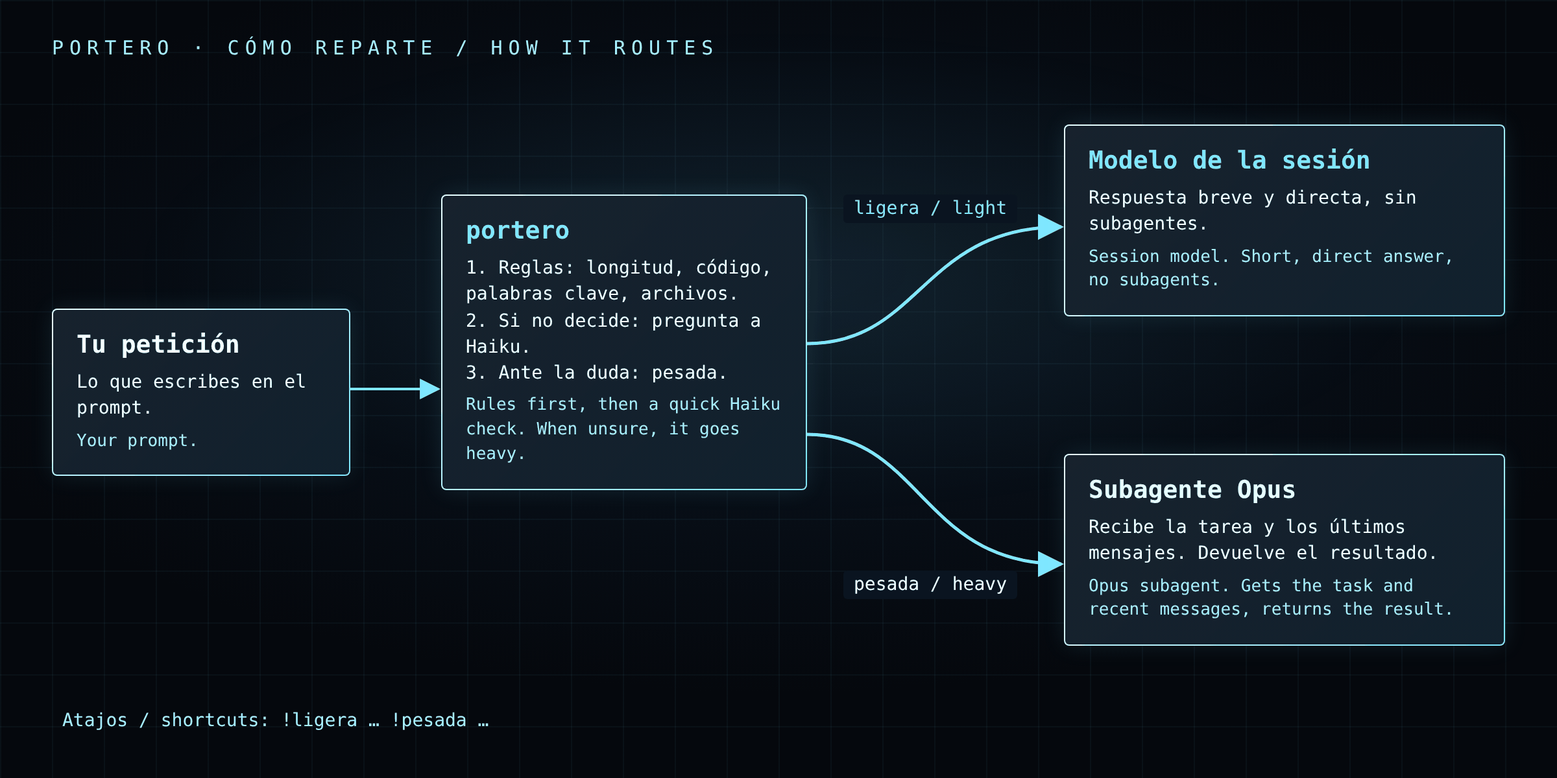
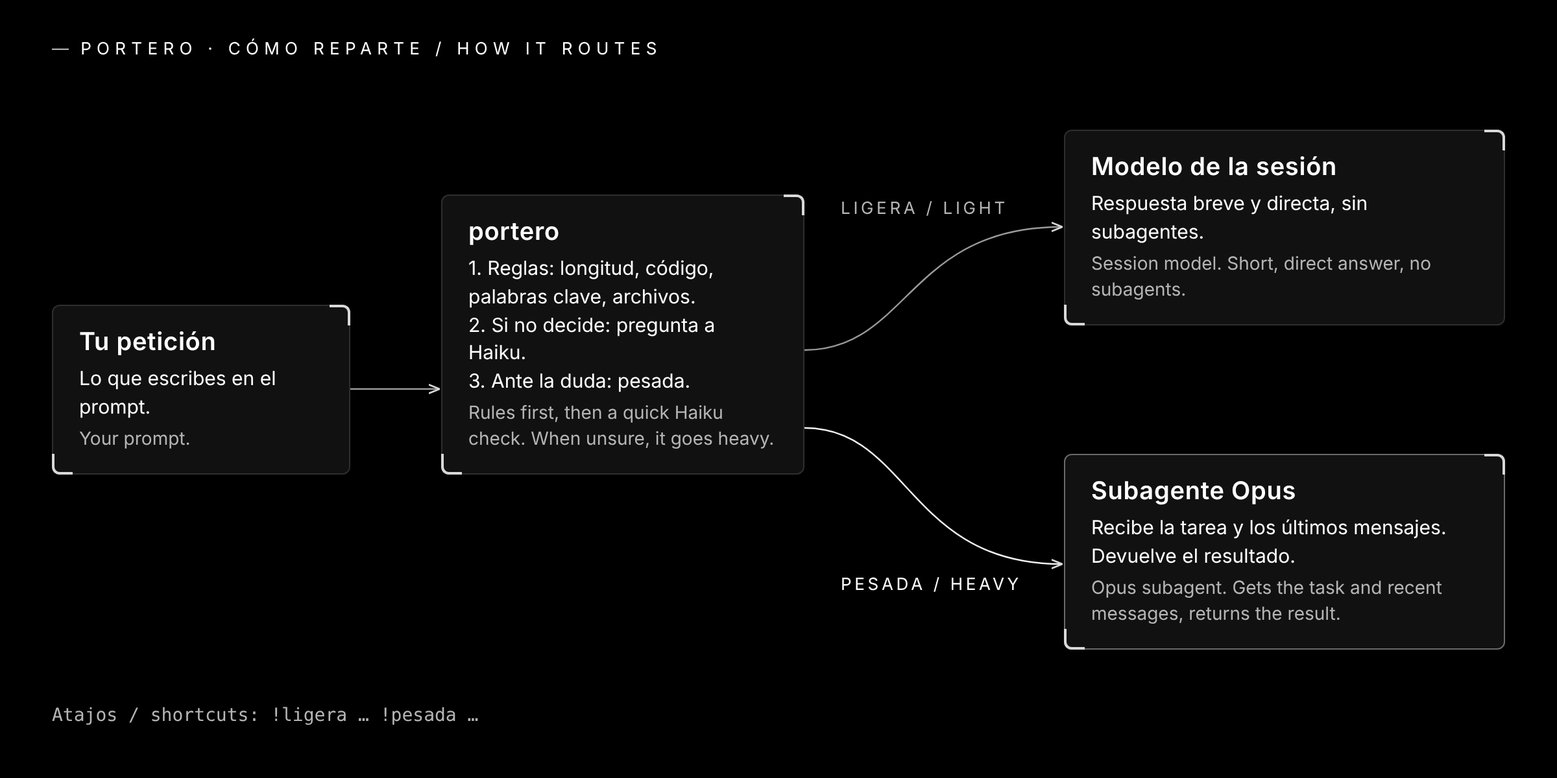
Imágenes monocromas y textos del pack 0.4.0
- images/ y distintivos del README desde pack-monocromo.
- README raíz: versiones finales de los cinco mods, novedades de la 0.4.0,
  consumo monocromo y en euros (fuera "blanco-cian"), carpetas de datos de
  portero y resumen-sesion, idiomas y límites de mods-estado al día.
- docs/: eventos, datos y comandos de cada mod; qué se escribe en disco
  (historico.json, decisiones.jsonl y ultimo-resumen.md).
- marketplace.json: descripciones al día.
- jarvis-banda/README: vuelve la galería de estados para que ninguna
  imagen quede sin usar.

Claude-Session: https://claude.ai/code/session_01GTQ6uXB2achPbvC2MLVFVT

diff --git a/README.md b/README.md
@@ -5,10 +5,10 @@
 <p align="center"><b>Cinco mods para Claude Code con estilo J.A.R.V.I.S.: reparten el trabajo entre modelos, muestran el consumo y te dicen en qué está la sesión.</b></p>
 
 <p align="center">
-  <a href="LICENSE"><img alt="Licencia MIT" src="https://img.shields.io/badge/licencia-MIT-22d3ee"></a>
-  <a href="https://docs.claude.com/en/docs/claude-code"><img alt="Claude Code" src="https://img.shields.io/badge/Claude%20Code-mods-d97757"></a>
-  <a href="CHANGELOG.md"><img alt="Versión 0.3.0" src="https://img.shields.io/badge/versi%C3%B3n-0.3.0-64748b"></a>
-  <a href="CONTRIBUTING.md"><img alt="Contribuciones bienvenidas" src="https://img.shields.io/badge/contribuciones-bienvenidas-34d399"></a>
+  <a href="LICENSE"><img alt="Licencia MIT" src="https://img.shields.io/badge/licencia-MIT-333333?labelColor=111111"></a>
+  <a href="https://docs.claude.com/en/docs/claude-code"><img alt="Claude Code" src="https://img.shields.io/badge/Claude%20Code-mods-333333?labelColor=111111"></a>
+  <a href="CHANGELOG.md"><img alt="Versión 0.4.0" src="https://img.shields.io/badge/versi%C3%B3n-0.4.0-333333?labelColor=111111"></a>
+  <a href="CONTRIBUTING.md"><img alt="Contribuciones bienvenidas" src="https://img.shields.io/badge/contribuciones-bienvenidas-333333?labelColor=111111"></a>
 </p>
 
 <p align="center"><b>Español</b> · <a href="#en">English</a></p>
@@ -34,6 +34,16 @@
 
 ## Novedades
 
+**Versión 0.4.0 del pack**
+
+Todo el pack pasa a una estética monocroma (blanco, grises y negro), también en las imágenes.
+
+- **consumo 0.8.0:** histórico entre sesiones (bloque Acumulado: hoy, semana, total y últimas sesiones), costes en euros por defecto (`moneda` y `tipoCambio`), tema `monocromo` por defecto, densidad automática según el tamaño de la ventana y sin parpadeo. `/jarvis` sigue abriendo y cerrando el HUD.
+- **portero 0.2.0:** clasificación por capas, override `!dudosa`, registro local de decisiones y comando `/portero`.
+- **resumen-sesion 0.2.0:** resumen de traspaso en secciones, comandos `/resumen` y `/resumen-ver`, y el último resumen guardado en disco.
+- **jarvis-banda 0.3.0:** siete estados, modelo y contexto en la misma línea, color monocromo por defecto y comando `/banda`.
+- **mods-estado 0.4.0:** `/mods` como diagnóstico del pack (versión instalada y copia local, fallos de carga, restos del marketplace antiguo), `/mods actualizar` y `/mods ayuda`, en blanco y grises.
+
 **Versión 0.3.0 del pack**
 
 - **consumo 0.4.0 y mods-estado 0.3.0:** sin rutas fijas de Windows. La carpeta de datos del HUD (`dataDir`) y la carpeta del pack (`modsDir`) se configuran con `claude plugin configure`; por defecto, `~/CLAUDE/consumo` y `~/CLAUDE/mods` dentro de tu carpeta de usuario. Ver [Configurar las carpetas](#es-carpetas).
@@ -52,11 +62,11 @@ Todos los cambios en [CHANGELOG.md](CHANGELOG.md).
 
 | Mod | Qué hace | Imagen |
 |---|---|---|
-| **[portero](portero/)**<br><sub>v0.1.0</sub> | Mira cada petición y decide quién la hace. Lo ligero, el modelo de la sesión. Lo pesado, un subagente Opus. | <img src="images/portero-diagrama.png" alt="portero" width="280"> |
-| **[resumen-sesion](resumen-sesion/)**<br><sub>v0.1.0</sub> | Si vuelves tras 2 horas sin escribir, Haiku escribe un resumen de traspaso para seguir en una sesión nueva. | <img src="images/resumen-terminal.png" alt="resumen-sesion" width="280"> |
-| **[consumo](consumo/)**<br><sub>v0.4.0</sub> | Ventana HUD en directo, en blanco-cian: barra del plan, contexto usado, coste, tokens por agente y por modelo, y comparativa Haiku frente a Opus. `/jarvis` la abre o la cierra. | <img src="images/consumo-900x600.png" alt="consumo" width="280"> |
-| **[jarvis-banda](jarvis-banda/)**<br><sub>v0.2.0</sub> | Una línea encima del prompt con el estado en vivo: esperando, procesando, ejecutando o delegando. | <img src="images/banda-delegando.png" alt="jarvis-banda" width="280"> |
-| **[mods-estado](mods-estado/)**<br><sub>v0.3.0</sub> | Comando `/mods`: lista los plugins activos y marca los del pack. `/mods on` y `/mods off` activan o desactivan un mod. | <img src="images/mods-terminal.png" alt="mods-estado" width="280"> |
+| **[portero](portero/)**<br><sub>v0.2.0</sub> | Mira cada petición y decide quién la hace, por capas de reglas. Lo ligero, el modelo de la sesión. Lo pesado, un subagente Opus. `/portero` enseña el reparto. | <img src="images/portero-diagrama.png" alt="portero" width="280"> |
+| **[resumen-sesion](resumen-sesion/)**<br><sub>v0.2.0</sub> | Si vuelves tras 2 horas sin escribir, o con `/resumen`, Haiku escribe un resumen de traspaso en secciones para seguir en una sesión nueva. `/resumen-ver` muestra el último. | <img src="images/resumen-terminal.png" alt="resumen-sesion" width="280"> |
+| **[consumo](consumo/)**<br><sub>v0.8.0</sub> | Ventana HUD en directo, monocroma por defecto: barra del plan, contexto usado, coste en euros, tokens por agente y por modelo, comparativa Haiku frente a Opus y acumulado entre sesiones. `/jarvis` la abre o la cierra. | <img src="images/consumo-900x600.png" alt="consumo" width="280"> |
+| **[jarvis-banda](jarvis-banda/)**<br><sub>v0.3.0</sub> | Una línea monocroma encima del prompt con el estado en vivo (esperando, procesando, pensando, ejecutando, delegando, permiso o error), el modelo y el contexto. `/banda` cambia idioma y modo. | <img src="images/banda-delegando.png" alt="jarvis-banda" width="280"> |
+| **[mods-estado](mods-estado/)**<br><sub>v0.4.0</sub> | Comando `/mods`: diagnóstico del pack (estado, versión instalada y de tu copia local, fallos de carga). `/mods on` y `/mods off` activan o desactivan un mod; `/mods actualizar` da los comandos para actualizar. | <img src="images/mods-terminal.png" alt="mods-estado" width="280"> |
 
 Cada mod es independiente. Instala solo los que quieras.
 
@@ -120,11 +130,13 @@ En macOS o Linux vale lo mismo con `claude --plugin-dir ~/CLAUDE/mods/portero --
 
 ## Configurar las carpetas
 
-Ningún mod usa rutas fijas. Dos mods tienen una opción de carpeta (`userConfig` en su `plugin.json`):
+Ningún mod usa rutas fijas. Cuatro mods tienen una opción de carpeta (`userConfig` en su `plugin.json`):
 
 | Mod | Opción | Para qué | Valor por defecto |
 |---|---|---|---|
-| `consumo` | `dataDir` | dónde se escriben `index.html`, `datos.js`, `estado.json` y `estado.js` | `~/CLAUDE/consumo` |
+| `consumo` | `dataDir` | dónde se escriben `index.html`, `datos.js`, `estado.json`, `estado.js` e `historico.json` | `~/CLAUDE/consumo` |
+| `portero` | `dataDir` | dónde se guarda el registro `decisiones.jsonl` | `~/CLAUDE/portero` |
+| `resumen-sesion` | `dataDir` | dónde se guarda `ultimo-resumen.md` | `~/CLAUDE/resumen-sesion` |
 | `mods-estado` | `modsDir` | dónde está tu copia local del pack | `~/CLAUDE/mods` |
 
 `~` es tu carpeta de usuario (`%USERPROFILE%` en Windows, `$HOME` en macOS y Linux). Acepta también una ruta absoluta.
@@ -181,9 +193,9 @@ Más detalle y un diagrama en [docs/como-funciona.md](docs/como-funciona.md).
 - **Sin audio en Windows.** Los mods no reproducen sonidos ni voz.
 - **portero no cambia el modelo del hilo principal.** Si la sesión usa Opus, lo ligero también va con Opus. Para ahorrar, pon la sesión en Haiku con `/model`.
 - **El HUD de consumo no se ha probado en todos los PC.** Puede variar con la versión de Windows, el navegador o el escalado de pantalla.
-- **mods-estado no ve los mods cargados con `--plugin-dir`.** Salen como "no cargado" aunque estén en uso, y `/mods on` y `/mods off` no los cambian.
+- **mods-estado no ve los mods cargados con `--plugin-dir`.** Salen como "no instalado" aunque estén en uso (salvo el propio mods-estado, que sale como "en uso"), y `/mods on` y `/mods off` no los cambian.
 - **`/jarvis` no siempre cierra la ventana.** `window.close()` puede no funcionar en algunas versiones de Edge; entonces la página avisa y la cierras a mano.
-- **Textos en español.** Lo que los mods muestran en la terminal está en español.
+- **Textos en español por defecto.** consumo, jarvis-banda, mods-estado y resumen-sesion tienen una opción de idioma (`idioma` o `language`) para pasar a inglés; portero solo está en español.
 
 <a id="es-contribuir"></a>
 
@@ -228,6 +240,16 @@ MIT © deriva1945-ui. Ver [LICENSE](LICENSE). Cada mod lleva también su propio 
 
 ## What's new
 
+**Pack version 0.4.0**
+
+The whole pack moves to a monochrome look (white, greys and black), images included.
+
+- **consumo 0.8.0:** history across sessions (Accumulated block: today, this week, total and latest sessions), costs in euros by default (`moneda` and `tipoCambio`), `monocromo` as the default theme, automatic density from the window size and no flicker. `/jarvis` still opens and closes the HUD.
+- **portero 0.2.0:** layered classification, `!dudosa` override, local decision log and the `/portero` command.
+- **resumen-sesion 0.2.0:** handover summary in sections, `/resumen` and `/resumen-ver` commands, and the last summary saved to disk.
+- **jarvis-banda 0.3.0:** seven states, model and context on the same line, monochrome colour by default and the `/banda` command.
+- **mods-estado 0.4.0:** `/mods` as a pack check-up (installed version and local copy, load failures, leftovers from the old marketplace), `/mods update` and `/mods help`, in white and greys.
+
 **Pack version 0.3.0**
 
 - **consumo 0.4.0 and mods-estado 0.3.0:** no fixed Windows paths. The HUD data folder (`dataDir`) and the pack folder (`modsDir`) are set with `claude plugin configure`; by default, `~/CLAUDE/consumo` and `~/CLAUDE/mods` inside your user folder. See [Configure the folders](#en-folders).
@@ -246,11 +268,11 @@ Every change is in [CHANGELOG.md](CHANGELOG.md).
 
 | Mod | What it does | Image |
 |---|---|---|
-| **[portero](portero/)**<br><sub>v0.1.0</sub> | Looks at each request and decides who handles it. Light work: the session model. Heavy work: an Opus subagent. | <img src="images/portero-diagrama.png" alt="portero" width="280"> |
-| **[resumen-sesion](resumen-sesion/)**<br><sub>v0.1.0</sub> | When you come back after 2 hours without typing, Haiku writes a handover summary so you can continue in a new session. | <img src="images/resumen-terminal.png" alt="resumen-sesion" width="280"> |
-| **[consumo](consumo/)**<br><sub>v0.4.0</sub> | Live white-cyan HUD window: plan bar, context used, cost, tokens per agent and per model, and a Haiku versus Opus comparison. `/jarvis` opens or closes it. | <img src="images/consumo-900x600.png" alt="consumo" width="280"> |
-| **[jarvis-banda](jarvis-banda/)**<br><sub>v0.2.0</sub> | One line above the prompt with the live state: waiting, processing, running a tool, or delegating. | <img src="images/banda-delegando.png" alt="jarvis-banda" width="280"> |
-| **[mods-estado](mods-estado/)**<br><sub>v0.3.0</sub> | `/mods` command: lists active plugins and marks the ones from this pack. `/mods on` and `/mods off` enable or disable a mod. | <img src="images/mods-terminal.png" alt="mods-estado" width="280"> |
+| **[portero](portero/)**<br><sub>v0.2.0</sub> | Looks at each request and decides who handles it, through layers of rules. Light work: the session model. Heavy work: an Opus subagent. `/portero` shows the split. | <img src="images/portero-diagrama.png" alt="portero" width="280"> |
+| **[resumen-sesion](resumen-sesion/)**<br><sub>v0.2.0</sub> | When you come back after 2 hours without typing, or with `/resumen`, Haiku writes a handover summary in sections so you can continue in a new session. `/resumen-ver` shows the last one. | <img src="images/resumen-terminal.png" alt="resumen-sesion" width="280"> |
+| **[consumo](consumo/)**<br><sub>v0.8.0</sub> | Live HUD window, monochrome by default: plan bar, context used, cost in euros, tokens per agent and per model, a Haiku versus Opus comparison and totals across sessions. `/jarvis` opens or closes it. | <img src="images/consumo-900x600.png" alt="consumo" width="280"> |
+| **[jarvis-banda](jarvis-banda/)**<br><sub>v0.3.0</sub> | One monochrome line above the prompt with the live state (waiting, processing, thinking, running a tool, delegating, permission or error), the model and the context. `/banda` changes language and mode. | <img src="images/banda-delegando.png" alt="jarvis-banda" width="280"> |
+| **[mods-estado](mods-estado/)**<br><sub>v0.4.0</sub> | `/mods` command: a pack check-up (state, installed and local copy version, load failures). `/mods on` and `/mods off` enable or disable a mod; `/mods update` gives the commands to update. | <img src="images/mods-terminal.png" alt="mods-estado" width="280"> |
 
 Each mod works on its own. Install only the ones you want.
 
@@ -314,11 +336,13 @@ On macOS or Linux the same works with `claude --plugin-dir ~/CLAUDE/mods/portero
 
 ## Configure the folders
 
-No mod uses fixed paths. Two mods have a folder option (`userConfig` in their `plugin.json`):
+No mod uses fixed paths. Four mods have a folder option (`userConfig` in their `plugin.json`):
 
 | Mod | Option | What for | Default |
 |---|---|---|---|
-| `consumo` | `dataDir` | where `index.html`, `datos.js`, `estado.json` and `estado.js` are written | `~/CLAUDE/consumo` |
+| `consumo` | `dataDir` | where `index.html`, `datos.js`, `estado.json`, `estado.js` and `historico.json` are written | `~/CLAUDE/consumo` |
+| `portero` | `dataDir` | where the `decisiones.jsonl` log is kept | `~/CLAUDE/portero` |
+| `resumen-sesion` | `dataDir` | where `ultimo-resumen.md` is kept | `~/CLAUDE/resumen-sesion` |
 | `mods-estado` | `modsDir` | where your local copy of the pack is | `~/CLAUDE/mods` |
 
 `~` is your user folder (`%USERPROFILE%` on Windows, `$HOME` on macOS and Linux). An absolute path works too.
@@ -375,9 +399,9 @@ More detail and a diagram in [docs/how-it-works.md](docs/how-it-works.md).
 - **No audio on Windows.** The mods play no sounds or voice.
 - **portero does not change the main thread's model.** If the session runs on Opus, light work also runs on Opus. To save, switch the session to Haiku with `/model`.
 - **The consumo HUD has not been tested on every PC.** It may vary with the Windows version, the browser or display scaling.
-- **mods-estado cannot see mods loaded with `--plugin-dir`.** They show as "not loaded" even when in use, and `/mods on` and `/mods off` do not change them.
+- **mods-estado cannot see mods loaded with `--plugin-dir`.** They show as "not installed" even when in use (except mods-estado itself, which shows as "in use"), and `/mods on` and `/mods off` do not change them.
 - **`/jarvis` does not always close the window.** `window.close()` may not work in some Edge versions; the page then shows a notice and you close it by hand.
-- **Spanish labels.** What the mods show in the terminal is in Spanish.
+- **Spanish labels by default.** consumo, jarvis-banda, mods-estado and resumen-sesion have a language option (`idioma` or `language`) to switch to English; portero is Spanish only.
 
 <a id="en-contributing"></a>
 

diff --git a/docs/como-funciona.md b/docs/como-funciona.md
@@ -12,21 +12,24 @@ Los cinco mods siguen el mismo camino: **eventos → hooks → datos → pantall
 |---|---|
 | **Eventos** | Claude Code avisa de lo que pasa: `session.start` (empieza la sesión), `prompt.submit` (envías un mensaje), `tool.call` (corre una herramienta), `agent.spawn` (nace un subagente), `turn.complete` (termina un turno), `ui.render` (se dibuja una zona de la pantalla) y `command.run` (escribes un comando del mod). |
 | **Hooks** | Cada mod tiene un archivo `hooks/register.tsx`. Ahí dice qué eventos escucha y qué hace con cada uno. |
-| **Datos** | Lo que el mod recuerda entre eventos. Es pequeño: una hora, unos contadores, una fase. `consumo` además escribe un archivo en disco. |
+| **Datos** | Lo que el mod recuerda entre eventos. Es pequeño: una hora, unos contadores, una fase. `consumo`, `portero` y `resumen-sesion` además escriben archivos en su carpeta de datos. |
 | **Pantalla** | Donde se ve el resultado: una línea, un aviso, una ventana HUD, un texto en el chat o el propio turno de Claude. |
 
 ## Mod a mod
 
 | Mod | Escucha | Guarda | Muestra |
 |---|---|---|---|
-| [portero](../portero/) | `prompt.submit`, `agent.spawn` | la ruta del turno (ligera o pesada) | una nota en el turno y, si es pesada, un subagente Opus |
-| [resumen-sesion](../resumen-sesion/) | `turn.complete`, `prompt.submit` | la hora del último turno | un resumen de Haiku en el contexto y un aviso |
-| [consumo](../consumo/) | `session.start`, `turn.complete`, `tool.call`, `agent.spawn`, `command.run` | tokens, coste, turnos, plan, comparativa Haiku/Opus y si el HUD está abierto; va a `datos.js` y `estado.js` | una ventana HUD que recarga `datos.js` cada segundo y la respuesta de `/jarvis` |
-| [jarvis-banda](../jarvis-banda/) | `session.start`, `prompt.submit`, `tool.call`, `agent.spawn`, `turn.complete`, `ui.render` | fase, herramienta y modelos | una línea encima del prompt |
-| [mods-estado](../mods-estado/) | `session.start`, `command.run` | nada: lo calcula al momento | el informe de `/mods` y la respuesta de `/mods on` y `/mods off` |
+| [portero](../portero/) | `session.start`, `prompt.submit`, `agent.spawn`, `command.run` | la ruta del turno (ligera, pesada o dudosa) y el registro `decisiones.jsonl` | una nota en el turno, si es pesada un subagente Opus, la línea de estado y el informe de `/portero` |
+| [resumen-sesion](../resumen-sesion/) | `session.start`, `turn.complete`, `prompt.submit`, `command.run` | la hora del último turno y `ultimo-resumen.md` | un resumen de traspaso de Haiku en el contexto, un aviso y la respuesta de `/resumen` y `/resumen-ver` |
+| [consumo](../consumo/) | `session.start`, `turn.complete`, `tool.call`, `agent.spawn`, `command.run` | tokens, coste, turnos, plan, comparativa Haiku/Opus, acumulado entre sesiones y si el HUD está abierto; va a `datos.js`, `estado.js` e `historico.json` | una ventana HUD que recarga `datos.js` cada segundo y la respuesta de `/jarvis` |
+| [jarvis-banda](../jarvis-banda/) | `session.start`, `prompt.submit`, `tool.call`, `tool.check`, `turn.step`, `agent.spawn`, `turn.complete`, `ui.render`, `command.run` | fase, herramienta, modelos, contexto y pulso | una línea monocroma encima del prompt y la respuesta de `/banda` |
+| [mods-estado](../mods-estado/) | `session.start`, `command.run` | nada: lo calcula al momento | el diagnóstico de `/mods` y la respuesta de `/mods on`, `/mods off`, `/mods actualizar` y `/mods ayuda` |
 
 ## Reglas que cumplen todos
 
 - **No rompen la sesión.** Si un mod falla, deja pasar el evento sin cambios.
 - **Solo escuchan lo que necesitan.** Un mod no ve los eventos que no pide.
-- **No guardan tu conversación.** Lo único que se escribe en disco son los archivos de `consumo` en su carpeta de datos (opción `dataDir`, por defecto `~/CLAUDE/consumo`): la página, `datos.js` (números, nombres de modelo, la descripción corta de cada subagente y los títulos de tareas del plan) y `estado.json` / `estado.js` (si el HUD está abierto).
+- **No guardan tu conversación entera.** Solo escriben en disco tres mods, cada uno en su carpeta de datos (opción `dataDir`):
+  - `consumo` (`~/CLAUDE/consumo`): la página, `datos.js` (números, nombres de modelo, la descripción corta de cada subagente y los títulos de tareas del plan), `estado.json` / `estado.js` (si el HUD está abierto) e `historico.json` (solo cifras y nombres de modelos y de tipos de agente, nunca el texto de las peticiones).
+  - `portero` (`~/CLAUDE/portero`): `decisiones.jsonl`, con la ruta, la capa, el motivo y el texto de la petición recortado y con los secretos evidentes tapados. Se apaga con `logEnabled`.
+  - `resumen-sesion` (`~/CLAUDE/resumen-sesion`): `ultimo-resumen.md`, el último resumen de traspaso.

diff --git a/docs/how-it-works.md b/docs/how-it-works.md
@@ -12,21 +12,24 @@ All five mods follow the same path: **events → hooks → data → screen**.
 |---|---|
 | **Events** | Claude Code reports what happens: `session.start` (the session starts), `prompt.submit` (you send a message), `tool.call` (a tool runs), `agent.spawn` (a subagent starts), `turn.complete` (a turn ends), `ui.render` (an area of the screen is drawn) and `command.run` (you type one of the mod's commands). |
 | **Hooks** | Each mod has a `hooks/register.tsx` file. It says which events the mod listens to and what it does with each one. |
-| **Data** | What the mod remembers between events. It is small: a time, a few counters, a phase. `consumo` also writes a file to disk. |
+| **Data** | What the mod remembers between events. It is small: a time, a few counters, a phase. `consumo`, `portero` and `resumen-sesion` also write files to their data folder. |
 | **Screen** | Where you see the result: a line, a notice, a HUD window, a text in the chat, or Claude's own turn. |
 
 ## Mod by mod
 
 | Mod | Listens to | Keeps | Shows |
 |---|---|---|---|
-| [portero](../portero/) | `prompt.submit`, `agent.spawn` | the turn's route (light or heavy) | a note in the turn and, if heavy, an Opus subagent |
-| [resumen-sesion](../resumen-sesion/) | `turn.complete`, `prompt.submit` | the time of the last turn | a Haiku summary in context and a notice |
-| [consumo](../consumo/) | `session.start`, `turn.complete`, `tool.call`, `agent.spawn`, `command.run` | tokens, cost, turns, plan, the Haiku/Opus comparison and whether the HUD is open; written to `datos.js` and `estado.js` | a HUD window that reloads `datos.js` every second, and the `/jarvis` reply |
-| [jarvis-banda](../jarvis-banda/) | `session.start`, `prompt.submit`, `tool.call`, `agent.spawn`, `turn.complete`, `ui.render` | phase, tool and models | a line above the prompt |
-| [mods-estado](../mods-estado/) | `session.start`, `command.run` | nothing: it works it out on the spot | the `/mods` report and the `/mods on` / `/mods off` reply |
+| [portero](../portero/) | `session.start`, `prompt.submit`, `agent.spawn`, `command.run` | the turn's route (light, heavy or unsure) and the `decisiones.jsonl` log | a note in the turn, an Opus subagent when heavy, the status line and the `/portero` report |
+| [resumen-sesion](../resumen-sesion/) | `session.start`, `turn.complete`, `prompt.submit`, `command.run` | the time of the last turn and `ultimo-resumen.md` | a Haiku handover summary in context, a notice and the `/resumen` and `/resumen-ver` replies |
+| [consumo](../consumo/) | `session.start`, `turn.complete`, `tool.call`, `agent.spawn`, `command.run` | tokens, cost, turns, plan, the Haiku/Opus comparison, totals across sessions and whether the HUD is open; written to `datos.js`, `estado.js` and `historico.json` | a HUD window that reloads `datos.js` every second, and the `/jarvis` reply |
+| [jarvis-banda](../jarvis-banda/) | `session.start`, `prompt.submit`, `tool.call`, `tool.check`, `turn.step`, `agent.spawn`, `turn.complete`, `ui.render`, `command.run` | phase, tool, models, context and pulse | a monochrome line above the prompt and the `/banda` reply |
+| [mods-estado](../mods-estado/) | `session.start`, `command.run` | nothing: it works it out on the spot | the `/mods` check-up and the `/mods on`, `/mods off`, `/mods update` and `/mods help` replies |
 
 ## Rules they all follow
 
 - **They do not break the session.** If a mod fails, it lets the event through unchanged.
 - **They only listen to what they need.** A mod does not see events it does not ask for.
-- **They do not store your conversation.** The only things written to disk are `consumo`'s files in its data folder (`dataDir` option, default `~/CLAUDE/consumo`): the page, `datos.js` (numbers, model names, each subagent's short description and plan task titles) and `estado.json` / `estado.js` (whether the HUD is open).
+- **They do not store your whole conversation.** Only three mods write to disk, each in its own data folder (`dataDir` option):
+  - `consumo` (`~/CLAUDE/consumo`): the page, `datos.js` (numbers, model names, each subagent's short description and plan task titles), `estado.json` / `estado.js` (whether the HUD is open) and `historico.json` (only figures and model and agent-type names, never prompt text).
+  - `portero` (`~/CLAUDE/portero`): `decisiones.jsonl`, with the route, layer, reason and the request text cut short with obvious secrets masked. Turn it off with `logEnabled`.
+  - `resumen-sesion` (`~/CLAUDE/resumen-sesion`): `ultimo-resumen.md`, the last handover summary.

diff --git a/jarvis-banda/README.md b/jarvis-banda/README.md
@@ -30,6 +30,12 @@ Una sola línea, siempre. Cada estado tiene su símbolo de una columna:
 
 Detrás del estado, en la misma línea: el modelo activo (`OPUS-5.5`) y el contexto usado (`CTX 42%`). El contexto aparece cuando Claude Code ya lo ha medido (tras la primera respuesta).
 
+| Esperando | Procesando | Ejecutando |
+|---|---|---|
+| ![esperando](../images/banda-esperando.png) | ![procesando](../images/banda-procesando.png) | ![ejecutando](../images/banda-ejecutando.png) |
+
+*Aproximaciones en HTML, no son la salida real de la terminal.*
+
 ### Colores
 
 La banda es monocroma, como el HUD de consumo: blanco y grises, sin color de acento. El tono de la línea depende del modelo:
@@ -163,6 +169,12 @@ Always one line. Each state has its own one-column symbol (labels shown with `id
 | ✕ | ERROR IN tool | when a tool ends with an error, until the next change |
 
 After the state, on the same line: the active model (`OPUS-5.5`) and the context used (`CTX 42%`). The context appears once Claude Code has measured it (after the first response).
+
+| Waiting | Processing | Running |
+|---|---|---|
+| ![waiting](../images/banda-esperando.png) | ![processing](../images/banda-procesando.png) | ![running](../images/banda-ejecutando.png) |
+
+*HTML approximations, not the real terminal output.*
 
 ### Colors
 
